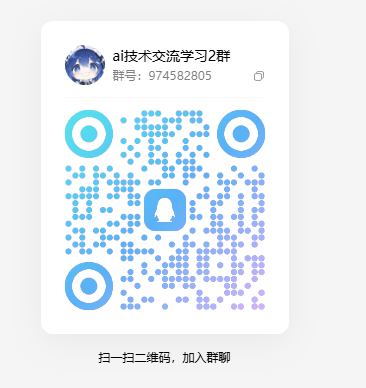
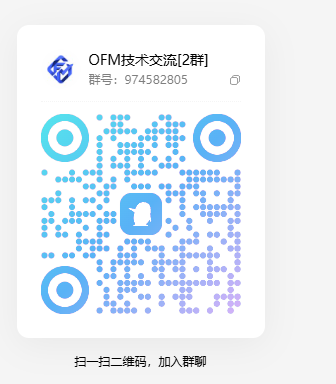
文档：同步 OFM 技术交流二群入口

diff --git a/README.md b/README.md
@@ -39,9 +39,9 @@
 ## 交流群
 
 <div align="center">
-  <img src="docs/images/qq-group-386179533.png" alt="OFM技术交流群[1群]入群二维码（群号：386179533）" width="300">
+  <img src="docs/images/qq-group-974582805.png" alt="OFM技术交流[2群]入群二维码（群号：974582805）" width="300">
   <br>
-  <b>QQ 群：386179533（OFM技术交流群[1群]）</b>
+  <b>QQ 群：974582805（OFM技术交流[2群]）</b>
   <br>
   扫码加入群聊，一起交流插件使用心得、反馈问题与分享玩法。
 </div>

diff --git a/README_EN.md b/README_EN.md
@@ -40,9 +40,9 @@
 ## Community
 
 <div align="center">
-  <img src="docs/images/qq-group-386179533.png" alt="QR code for OFM技术交流群[1群] (QQ group: 386179533)" width="300">
+  <img src="docs/images/qq-group-974582805.png" alt="QR code for OFM技术交流[2群] (QQ group: 974582805)" width="300">
   <br>
-  <b>QQ group: 386179533 (OFM技术交流群[1群])</b>
+  <b>QQ group: 974582805 (OFM技术交流[2群])</b>
   <br>
   Scan the QR code to join, discuss the plugin, report issues and share tips.
 </div>
